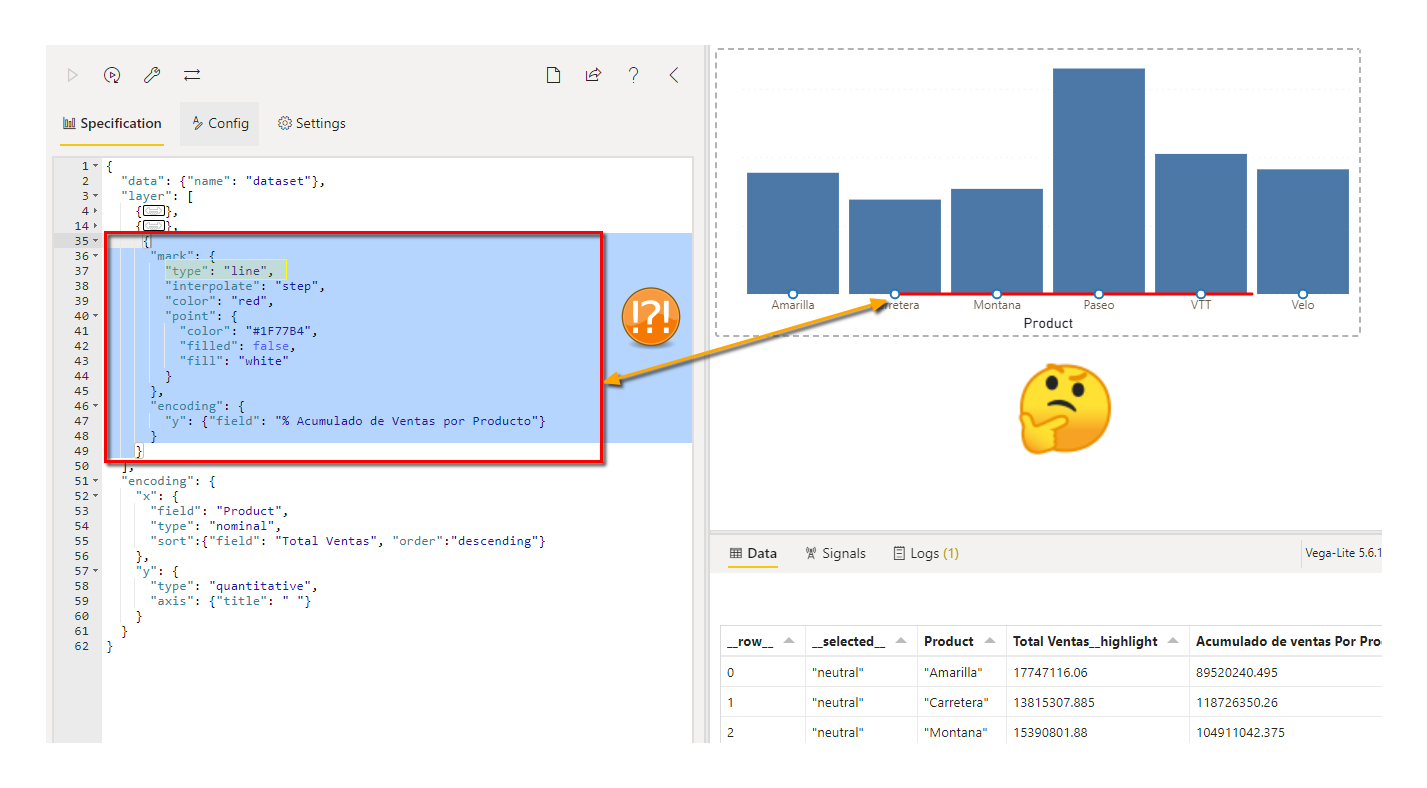
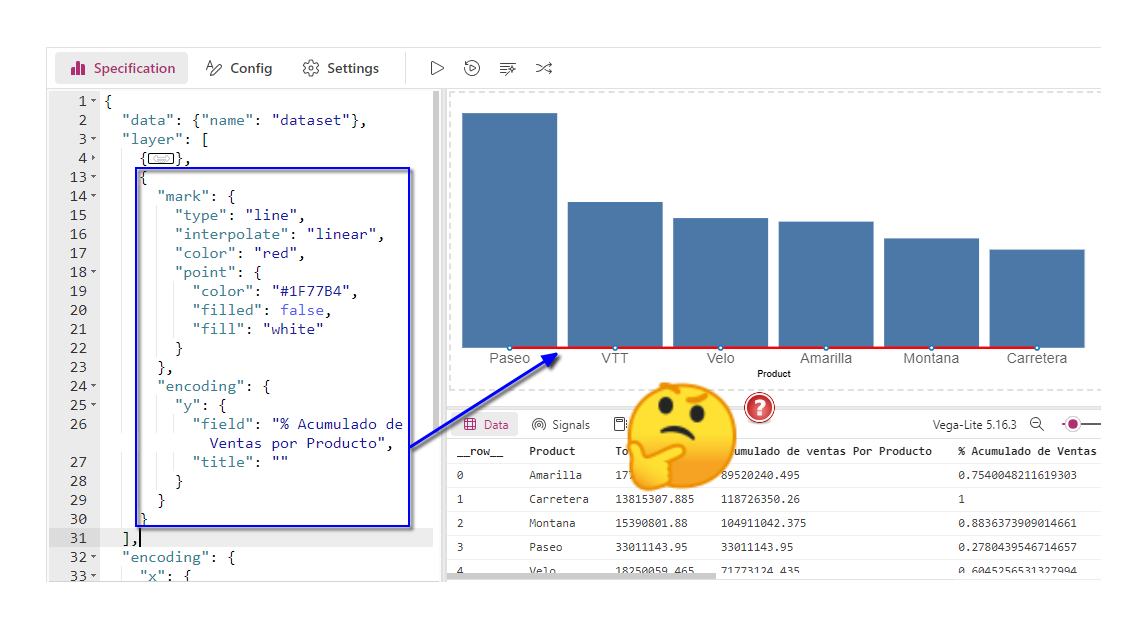
Update

diff --git a/_posts/2024-05-05-diagrama-pareto-parte-1.md b/_posts/2024-05-05-diagrama-pareto-parte-1.md
@@ -154,8 +154,6 @@ Por utimo para continuar con los siguiente paso es necesario envolver esta capa 
 
 Para ordenar el gráfico de acuerdo con la variable "Total Ventas" de mayor a menor, sigue estos pasos:
 
-Regresa al panel de especificaciones en el editor de Deneb (si deseas conocer todos los botones y paneles de la versión de Deneb 1.5, puedes ver este video donde se explico cada uno de sus componentes : <https://youtu.be/odIYzsS11Qg>.
-
 Agrega la propiedad <kbd>"sort"</kbd> en el eje X, de la siguiente manera:
 
 <pre class="highlight"><code>
@@ -165,40 +163,46 @@ Agrega la propiedad <kbd>"sort"</kbd> en el eje X, de la siguiente manera:
    "order":"descending"
 }
 </code></pre>
+
+Ver imagen .gif para ver como agregar:
+
+![Paso 8](/assets/img/post-diagrama-pareto-parte-1/Paso_8.gif)
+### Explicación del código
 <kbd>"field": "Total Ventas"</kbd> Especifica el campo (columna) del conjunto de datos que se utilizará como criterio de ordenación. En este caso, se utiliza la columna <kbd>"Total Ventas"</kbd>.
 
 <kbd>"op": "sum"</kbd> Define la operación de agregación que se aplicará a los datos antes de ordenarlos. En este caso, se utiliza la función sum para sumar los valores de <kbd>"Total Ventas"</kbd>.
 
 <kbd>"order": "descending"</kbd> Establece el orden de clasificación. En este caso, se utiliza "descending" para ordenar los datos de mayor a menor.
 
-Al agregar este código, el gráfico se ordenará de acuerdo con la suma de "Total Ventas" para cada categoría en el eje X, mostrando los valores en orden descendente. Esto facilita la identificación visual de las categorías de productos que generan la mayor parte de las ventas.
-
-Aprovecha para quitar el título del eje Y. A continuación, se muestra la imagen con las modificaciones realizadas para ordenar el gráfico y quitar el título del eje Y:
-* Imagen final finalizada
-
+>Al agregar este código, el gráfico se ordenará de acuerdo con la suma de "Total Ventas" para cada categoría en el eje X, mostrando los valores en orden descendente. Esto facilita la identificación visual de las categorías de productos que generan la mayor parte de las ventas.
+{: .prompt-tip }
 
 ## Paso 9: **Agregar el gráfico de línea como una capa adicional en el array "layer"**
 
-Hasta ahora, si has seguido los pasos, te darás cuenta de que dentro del array "layer" existen dos objetos visuales, cada uno con un "mark" de tipo "bar" (gráfico de barras). A continuación, añadiremos un nuevo objeto para el gráfico de línea:
+Hasta ahora, si has seguido los pasos, te darás cuenta de que dentro del array "layer" existen un objeto visual, con un "mark" de tipo "bar" (gráfico de barras). A continuación, añadiremos un nuevo objeto para el gráfico de línea:
 
 <pre class="highlight"><code>
-"mark":{
-   "type":"line",
-   "interpolate":"linear",
-   "color":"red",
-   "point":{
-      "color":"#1F77B4",
-      "filled":false,
-      "fill":"white"
-   }
-},
-"encoding":{
-   "y":{
-      "field":"% Acumulado de Ventas por Producto"
-   }
+{
+    "mark":{
+        "type":"line",
+        "interpolate":"linear",
+        "color":"red",
+        "point":{
+            "color":"#1F77B4",
+            "filled":false,
+            "fill":"white"
+        }
+    },
+    "encoding":{
+        "y":{
+            "field":"% Acumulado de Ventas por Producto",
+            "title":""
+        }
+    }
 }
 </code></pre>
 
+### Explicación del código
 Este objeto define un gráfico de línea con las siguientes características:
 
 <kbd>"type": "line</kbd> Establece que el tipo de marca o grafico será, en este caso es de línea.
@@ -213,7 +217,7 @@ La propiedad "encoding" en este objeto especifica que el eje Y del gráfico de l
 
 Mira la siguiente imagen y observa que la línea está justo a nivel cero:
 
-![Paso 8](/assets/img/post-diagrama-pareto-parte-1/Paso_9.png)
+![Paso 9](/assets/img/post-diagrama-pareto-parte-1/Paso_9.png)
 
 >El problema aquí es que estamos usando un eje Y a una escala mayor que la del porcentaje. Debemos activar un segundo eje Y para graficar el porcentaje, que generalmente está a una escala de 0 a 1. Para ello, agrega el siguiente código después del array <kbd>"layer":</kbd>
 {: .prompt-warning }
@@ -228,9 +232,9 @@ Mira la siguiente imagen y observa que la línea está justo a nivel cero:
 
 La propiedad <kbd>resolve</kbd> y su atributo <kbd>scale</kbd> indican que el eje Y utilizará escalas independientes para cada capa. De esta manera, el gráfico de línea usará una escala adecuada para representar el porcentaje acumulado de ventas por producto.
 
-Esto resuelve el problema, y lo puedes ver en la siguiente imagen:
+Esto resuelve el problema, y lo puedes ver en la siguiente imagen.gif:
 
-![Paso 8](/assets/img/post-diagrama-pareto-parte-1/Paso_9_1.png)
+![Paso 9-1](/assets/img/post-diagrama-pareto-parte-1/Paso_9_1.gif)
 
 Al agregar este nuevo objeto y el segundo eje Y, el gráfico de línea mostrará el porcentaje acumulado de ventas por producto, facilitando la identificación de las categorías de productos que representan el 80% de las ventas totales. También puede ver en la imagen anterior los métodos de interpolación que se pueden usar en el gráfico de línea.
 
@@ -259,7 +263,7 @@ Etiquetas para el gráfico de líneas:
     }
 }
 </code></pre>
-
+### Explicación del código
 Este objeto define una capa de etiquetas con las siguientes características:
 
 <kbd>"type": "text":</kbd> Establece que el tipo de marca será texto.
@@ -274,23 +278,24 @@ Etiquetas para el gráfico de barras:
 
 <pre class="highlight"><code>
 {
-   "mark":{
-      "type":"text",
-      "color":"#333333",
-      "yOffset":-16
-   },
-   "encoding":{
-      "text":{
-         "field":"% Acumulado de Ventas por Producto",
-         "format":"0.0%",
-         "formatType":"pbiFormat"
-      },
-      "y":{
-         "field":"% Acumulado de Ventas por Producto"
-      }
-   }
+    "mark":{
+        "type":"text",
+        "color":"#333333",
+        "yOffset":-8
+    },
+    "encoding":{
+        "text":{
+            "field":"Total Ventas",
+            "format":"$#0,0",
+            "formatType":"pbiFormat"
+        },
+        "y":{
+            "field":"Total Ventas"
+        }
+    }
 }
 </code></pre>
+### Explicación del código
 
 Este objeto define otra capa de etiquetas con las siguientes características:
 
@@ -305,29 +310,18 @@ La propiedad <kbd>"encoding"</kbd> en este objeto especifica que el contenido de
 >Al agregar estas capas de etiquetas, el gráfico de Pareto se vuelve más informativo y fácil de interpretar, mostrando valores exactos para cada punto de la línea y cada barra en el gráfico. Ver la siguiente Imagen:
 {: .prompt-info }
 
-![Paso 10](/assets/img/post-diagrama-pareto-parte-1/Paso_10.png)
+![Paso 10](/assets/img/post-diagrama-pareto-parte-1/Paso_10.gif)
 Imagen del gráfico de Pareto con etiquetas😍
 
 ## Paso 11: **Agregar color condicional a los gráficos de barras**
 
-Para mejorar la visualización, agregaremos un color condicional a los gráficos de barras. Esto permitirá resaltar las barras que representan el 80% de las ventas acumuladas en un color diferente al de las barras restantes.
+Para mejorar la visualización, agregaremos un color condicional al gráfico de barras. Esto permitirá resaltar las barras que representan el 80% de las ventas acumuladas en un color diferent al de las barras restantes.
 
-Aplicar color condicional al primer gráfico de barras:
+Aplicar color condicional al gráfico de barras:
 <pre class="highlight"><code>
-  { 
-   "mark":{
-      "type":"bar",
-      "opacity":0.3,
-      "tooltip":true,
-      "color":{
-         "expr":"datum['% Acumulado de Ventas por Producto']<=0.8?'#7F7F7F':'#D62728'"
-      }
-   },
-   "encoding":{
-      "y":{
-         "field":"Total Ventas"
-      }
-   }
+,
+"color":{
+    "expr":"datum['% Acumulado de Ventas por Producto']<=0.8?'#7F7F7F':'#D62728'"
 }
 </code></pre>
 
@@ -335,71 +329,67 @@ En el objeto de marca, hemos agregado la propiedad <kbd>"color"</kbd> con la sig
 
 <kbd>"expr": "datum['% Acumulado de Ventas por Producto'] <=0.8 ?' ': ''"</kbd> Esta expresión asigna un color gris () a las barras que representan hasta el 80% de las ventas acumuladas y un color rojo () a las barras restantes.
 
-  1. Aplicar color condicional al segundo gráfico de barras:
+## Paso 12: **Agregar Cross-Filtering y Tooltip**
+
+En este paso, implementaremos una característica que destaca a Deneb como un visual personalizado poderoso: la capacidad de Cross-Filtering y Tooltip. Esta propiedad permite que los visuales de Deneb se comporten de manera similar a los visuales nativos de Power BI, resaltando las barras seleccionadas en un gráfico de barras. Esta interacción permite que los visuales cobren vida y puedan interactuar con otros visuales en el informe.
+
+Para activar esta propiedad en Deneb, debemos ir al Editor y en el panel de Configuración (Settings) activar el botón 'Cross-filtering (selection) of data points'. Para más información, puedes consultar la documentación de **Deneb**. Una vez activado, es importante entender brevemente lo que sucede en los siguientes fragmentos de código:
+
+### Código para la capa del gráfico de barras
+Este código da opacidad a la capa del gráfico de barras y activa el tooltip:
+
+<pre class="highlight"><code>
+"opacity": 0.3,
+"tooltip": true,
+</code></pre>
+
+### Código para resaltar solo lo seleccionado
+Agregamos otra capa de gráfico de barras para resaltar solo las barras seleccionadas:
 
 <pre class="highlight"><code>
 {
-   "mark":{
-      "type":"bar",
-      "tooltip":true,
-      "color":{
-         "expr":"datum['% Acumulado de Ventas por Producto']<=0.8?'#7F7F7F': '#D62728'"
-      }
-   },
-   "encoding":{
-      "y":{
-         "field":"Total Ventas__highlight"
+  "mark": {
+    "type": "bar",
+    "color": {
+      "expr": "datum['% Acumulado de Ventas por Producto']<=0.8?'#7F7F7F': '#D62728'"
+    },
+    "tooltip": true
+  },
+  "encoding": {
+    "y": {
+      "field": "Total Ventas"
+    },
+    "opacity": {
+      "condition": {
+        "test": {
+          "field": "__selected__",
+          "equal": "off"
+        },
+        "value": 0
       },
-      "opacity":{
-         "condition":{
-            "test":{
-               "field":"__selected__",
-               "equal":"off"
-            },
-            "value":0
-         },
-         "value":1
-      }
-   }
+      "value": 1
+    }
+  }
 }
 </code></pre>
 
-Al igual que en el primer gráfico de barras, hemos agregado la propiedad <kbd>"color"</kbd> con la misma expresión para asignar colores condicionales. En este caso, estamos usando esta capa adicional para destacar las barras seleccionadas en el gráfico de barras. La documentación de **Deneb** menciona cómo las selecciones se pueden utilizar para resaltar elementos en la visualización, por lo que no queremos pasar por alto una breve explicación, de lo que pasa aquí:
+### Explicación del código
 
-<pre class="highlight"><code>
-{
-   "encoding":{
-      "y":{
-         "field":"Total Ventas__highlight"
-      },
-      "opacity":{
-         "condition":{
-            "test":{
-               "field":"__selected__",
-               "equal":"off"
-            },
-            "value":0
-         },
-         "value":1
-      }
-   }
-}
-</code></pre>
+- **"field": "Total Ventas"**: Este campo representa los valores de las ventas totales que se deben destacar cuando se selecciona otro gráfico en el contexto.
 
-<kbd>"field": "Total Ventas__highlight"</kbd> Este campo representa los valores de las ventas totales que se deben destacar cuando se selecciona otro gráfico, en el contexto.
+- **"opacity": { ... }**: Esta propiedad de codificación controla la opacidad de las barras en función de si están seleccionadas o no.
 
-<kbd>"opacity": { ... }"</kbd> Esta propiedad de codificación controla la opacidad de las barras en función de si están seleccionadas o no.
+- **"condition": { ... }**: La condición especifica qué sucede cuando se cumple un cierto criterio. En este caso, el criterio está relacionado con la selección de las barras en el gráfico.
 
-<kbd>"condition": { ... }"</kbd> La condición especifica qué sucede cuando se cumple un cierto criterio. En este caso, el criterio está relacionado con la selección de las barras en el gráfico.
+- **"test": { "field": "__selected__", "equal": "off" }**: Este objeto de prueba verifica si la barra seleccionada está en estado "off" (es decir, no seleccionada). Si la barra no está seleccionada, la condición se cumple y se aplica el valor de opacidad especificado.
 
-<kbd>"test": { "field": "**selected**", "equal": "off" }"</kbd> Este objeto de prueba verifica si la barra seleccionada está en estado "off" (es decir, no seleccionada). Si la barra no está seleccionada, la condición se cumple y se aplica el valor de opacidad especificado.
+- **"value": 0**: Cuando la condición se cumple (la barra no está seleccionada), la opacidad de la barra se establece en 0, lo que hace que la barra sea transparente.
 
-<kbd>"value": 0</kbd> Cuando la condición se cumple (la barra no está seleccionada), la opacidad de la barra se establece en 0, lo que hace que la barra sea transparente.
+- **"value": 1**: Este es el valor predeterminado de opacidad para las barras cuando no se cumple la condición (es decir, cuando una barra está seleccionada). En este caso, la opacidad se establece en 1, lo que hace que la barra sea completamente visible.
 
-<kbd>"value": 1</kbd> Este es el valor predeterminado de opacidad para las barras cuando no se cumple la condición (es decir, cuando una barra está seleccionada). En este caso, la opacidad se establece en 1, lo que hace que la barra sea completamente visible.
-
+### Resultado Final
 Ver imagen final:
-![Pareto](https://raw.githubusercontent.com/CSalcedoDataBI/PowerBI-Deneb/main/Diagramas_Pareto/FIles/Pareto_Dinamico_Deneb_VegaLite_P1_Encabezado.gif)
+![Paso 10](/assets/img/post-diagrama-pareto-parte-1/Paso_12.gif)
 
 
 ## **Conclusión**
